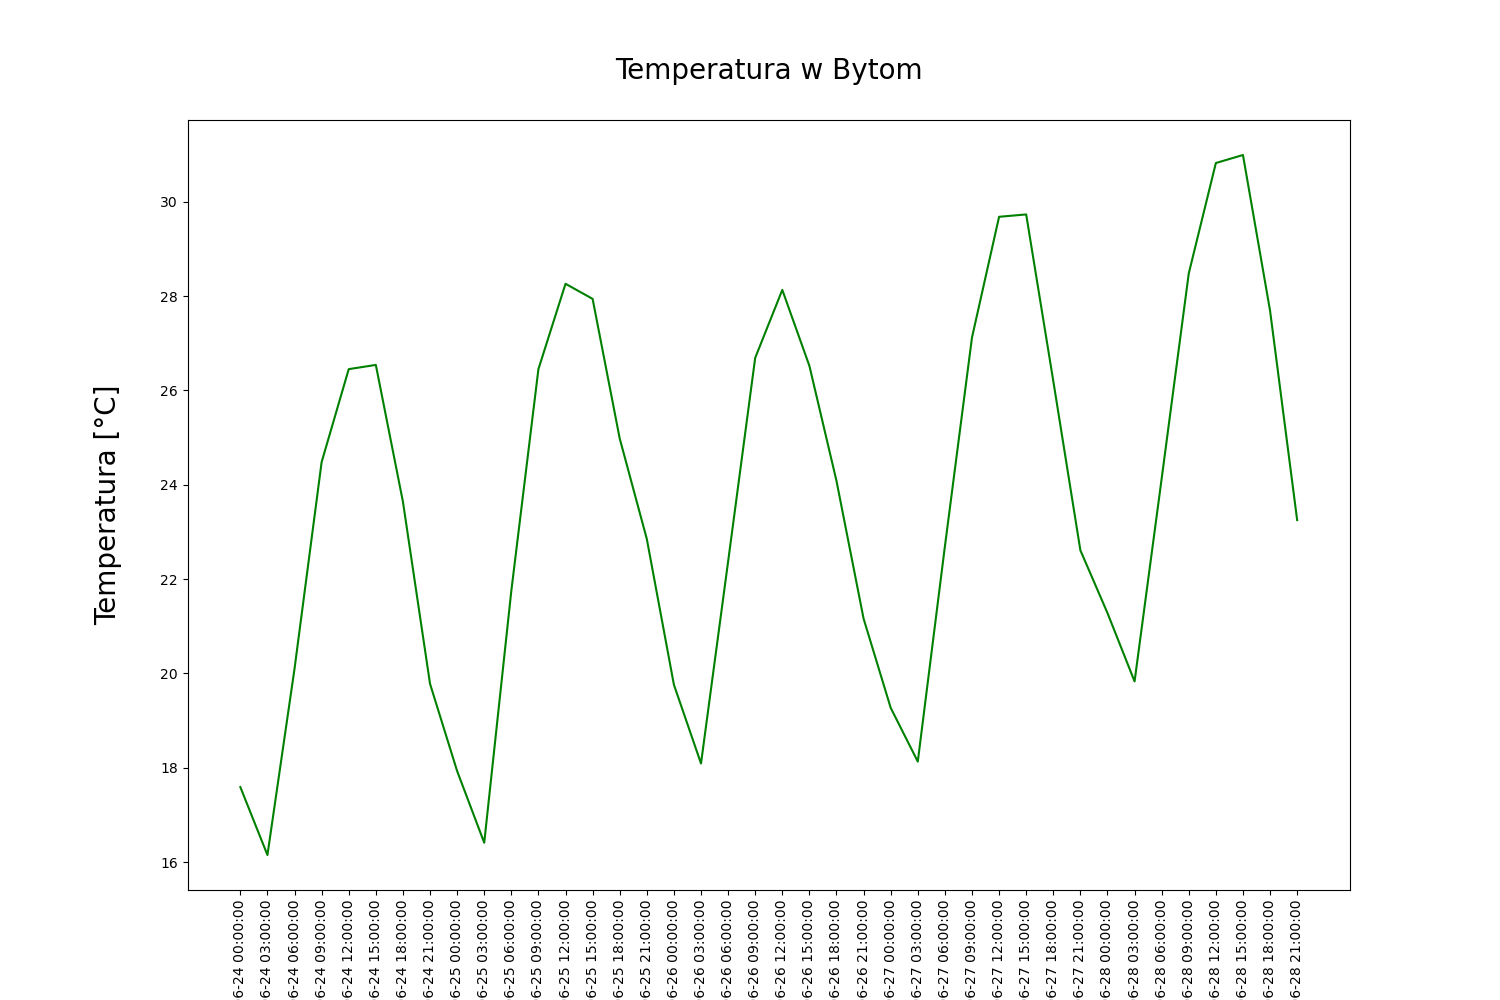
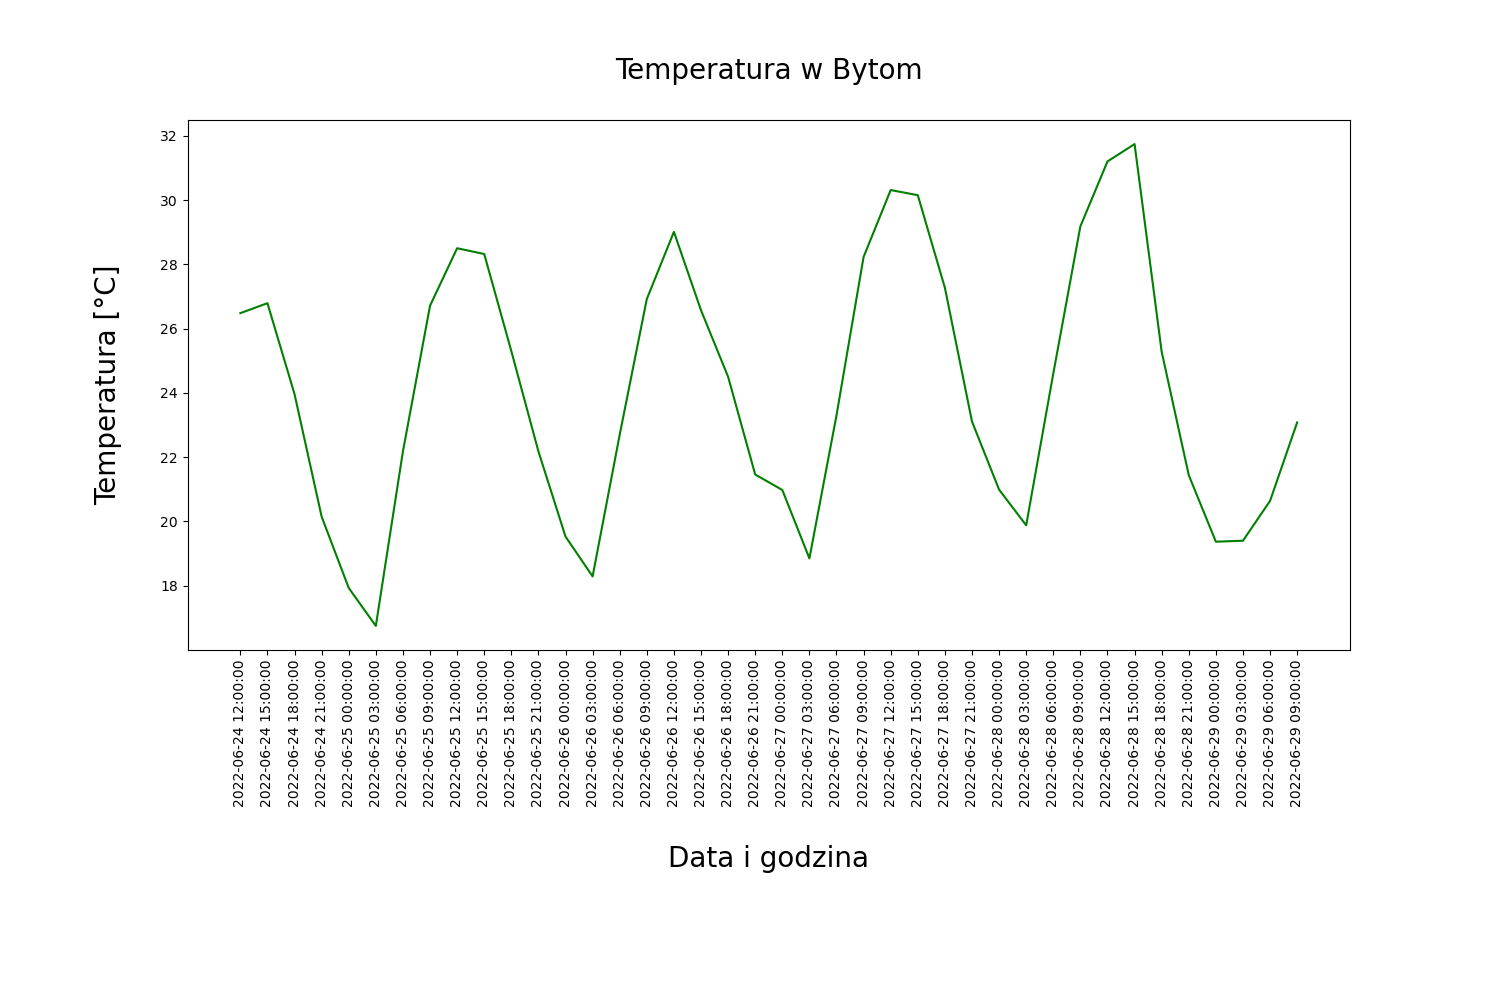
Fix typo and chart resolution

diff --git a/templates/home.html b/templates/home.html
@@ -2,8 +2,8 @@
 
 {% block body %}
   <div class="jumbotron text-center">
-    <h1>Welcome To FlaskApp</h1>
-    <p class="lead">This application is built on the Python Flask framework and is the focus for the "Python Flask From Scratch" YouTube series</p>
+    <h1>Welcome To Wheater FlaskApp</h1>
+    <p class="lead">Wheater app created with Flask and OpenWeatherMap API</p>
     {% if session.logged_in == NULL %}
       <a href="/register" class="btn btn-primary btn-lg">Register</a>
       <a href="/login" class="btn btn-success btn-lg">Login</a>

diff --git a/templates/includes/_navbar.html b/templates/includes/_navbar.html
@@ -13,7 +13,7 @@
           <ul class="nav navbar-nav">
             <li><a href="/">Home</a></li>
             <li><a href="/about">About</a></li>
-            <li><a href="/citys">Articles</a></li>
+            <li><a href="/citys">Citys</a></li>
           </ul>
 
           <ul class="nav navbar-nav navbar-right">

diff --git a/templates/add_city.html b/templates/add_city.html
@@ -1,7 +1,7 @@
 {% extends 'layout.html' %}
 
 {% block body %}
-  <h1>Add Article</h1>
+  <h1>Add City</h1>
   {% from "includes/_formhelpers.html" import render_field %}
   <form method="POST" action="">
     <div class="form-group">

diff --git a/app.py b/app.py
@@ -125,6 +125,7 @@ def city(id):
         plt.ylabel('Temperatura [\N{DEGREE SIGN}C]\n', fontdict={'fontsize': 20})
 
         plt.gcf()
+        plt.subplots_adjust(bottom=0.35)
         chart1path = "C:/Users/Marek/Desktop/Projekt_studia_python/FlaskApp/static/" + address + "chart1.png"
         chart2path = "/static/" + address + "chart1.png"
         plt.savefig(chart1path)
